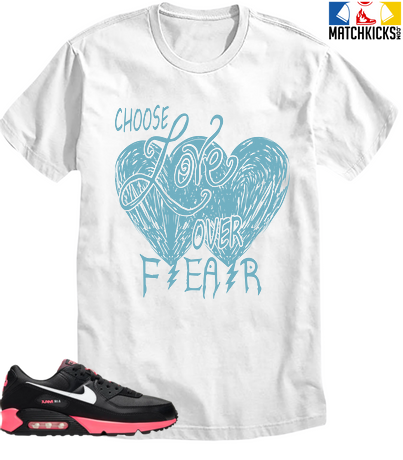
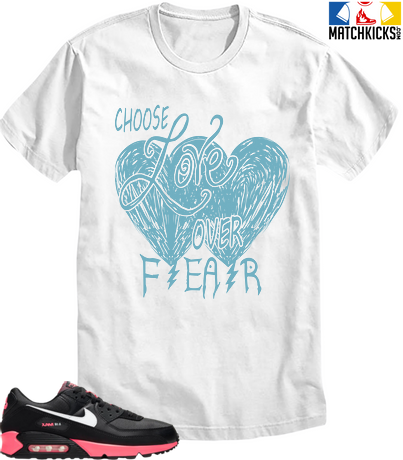
In /overlayImages API endpoint, the sneaker is now trimmed before being added to t-shirt/hoodie

Changed region(s): [[0.0, 0.7609, 0.4467, 1.0]]

diff --git a/src/helpers/index.js b/src/helpers/index.js
@@ -47,13 +47,18 @@ export async function makeOverlayImage(req, res) {
 
   // sneaker
   let sneakerImg = await sharp("./" + req.query.sneakerUrl)
-    .resize(
-      parseInt(300 * 1.5 * scalingFactor),
-      parseInt(165 * 1.5 * scalingFactor)
-    )
+    .resize({
+      width: parseInt(300 * 1.5 * scalingFactor),
+    })
+    .trim()
+    // .resize(
+    //   parseInt(300 * 1.5 * scalingFactor),
+    //   parseInt(165 * 1.5 * scalingFactor)
+    // )
     .toBuffer();
   metadata.sneakerImg = sizeOf(sneakerImg);
 
+  console.log(" sneaker image size ===== ", metadata.sneakerImg);
   // design
   let designImg = "./images/design-resized.png";
   if (req.query.productType === "t-shirt") {
@@ -94,13 +99,14 @@ export async function makeOverlayImage(req, res) {
     },
   ];
   if (req.query.hideSneaker !== "true") {
+    let _ht =
+      metadata.mainImg.height - metadata.sneakerImg.height - 60 * scalingFactor;
+    let _hh =
+      metadata.mainImg.height - metadata.sneakerImg.height - 10 * scalingFactor;
     arrCompositeImages.push({
       input: sneakerImg,
       gravity: "southeast",
-      top:
-        req.query.productType === "t-shirt"
-          ? parseInt(metadata.mainImg.height - 280 * scalingFactor)
-          : parseInt(metadata.mainImg.height - 50 * scalingFactor),
+      top: req.query.productType === "t-shirt" ? parseInt(_ht) : parseInt(_hh),
       left: 0,
     });
   }

diff --git a/src/controllers/tempOperations.js b/src/controllers/tempOperations.js
@@ -1,3 +1,8 @@
+import { performance } from "perf_hooks";
+import fs from "fs";
+import sharp from "sharp";
+import sizeOf from "image-size";
+
 export function resizeImages(req, res) {
   let MKStandardWidth = 1008;
   let MKStandardHeight = 1152;
@@ -52,6 +57,10 @@ export async function convertSvgToPng(req, res) {
 export async function getAnImageLocally(req, res) {
   //
   let t0 = performance.now();
+  let scalingFactor = 1;
+  if (req.query.scalingFactor) {
+    scalingFactor = parseFloat(req.query.scalingFactor);
+  }
   if (!req.query.path) {
     res.send({
       error: "Please provide a path to image",
@@ -66,10 +75,20 @@ export async function getAnImageLocally(req, res) {
   }
   // res.sendFile(req.query.path, { root: process.cwd() });
 
+  console.log(scalingFactor);
   let out = await sharp(req.query.path).toBuffer();
+  let outDimensions = sizeOf(out);
+  let out2 = await sharp(req.query.path)
+    .resize({
+      width: parseInt(outDimensions.width * scalingFactor),
+    })
+    .jpeg()
+    .trim()
+    .toBuffer();
+
   let t1 = performance.now();
   // console.log("Time (ms) to fetch an Image by an API = ", t1 - t0);
-  res.end(Buffer.from(out, "base64"));
+  res.end(Buffer.from(out2, "base64"));
 }
 
 export async function getAnImageFromApi(req, res) {
